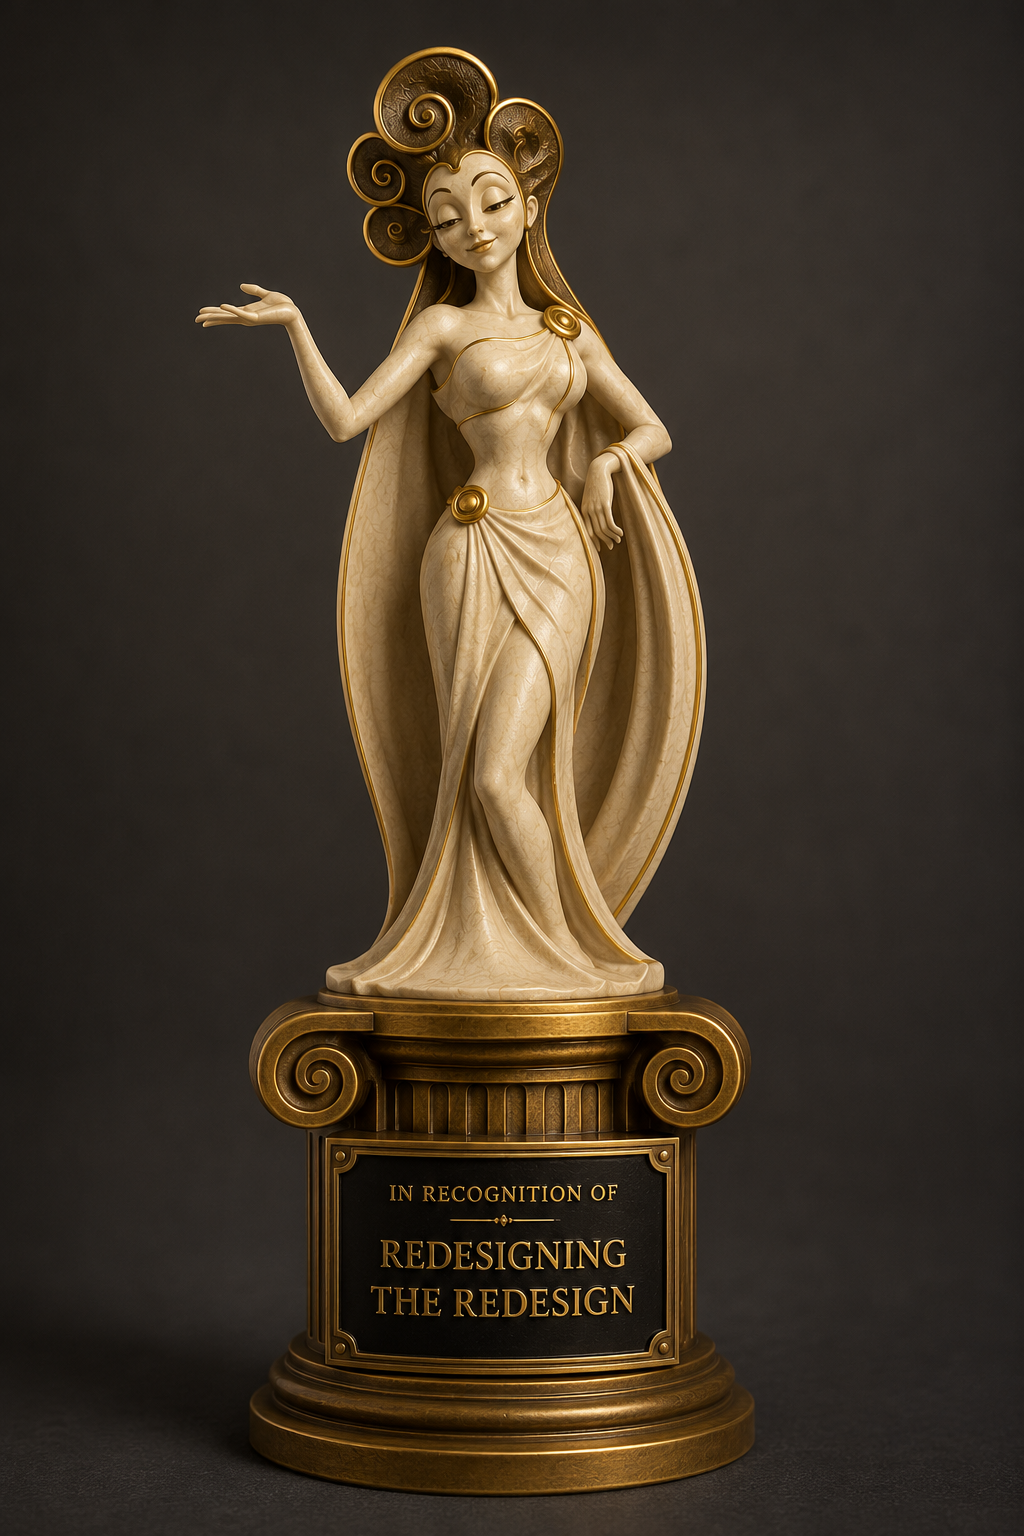
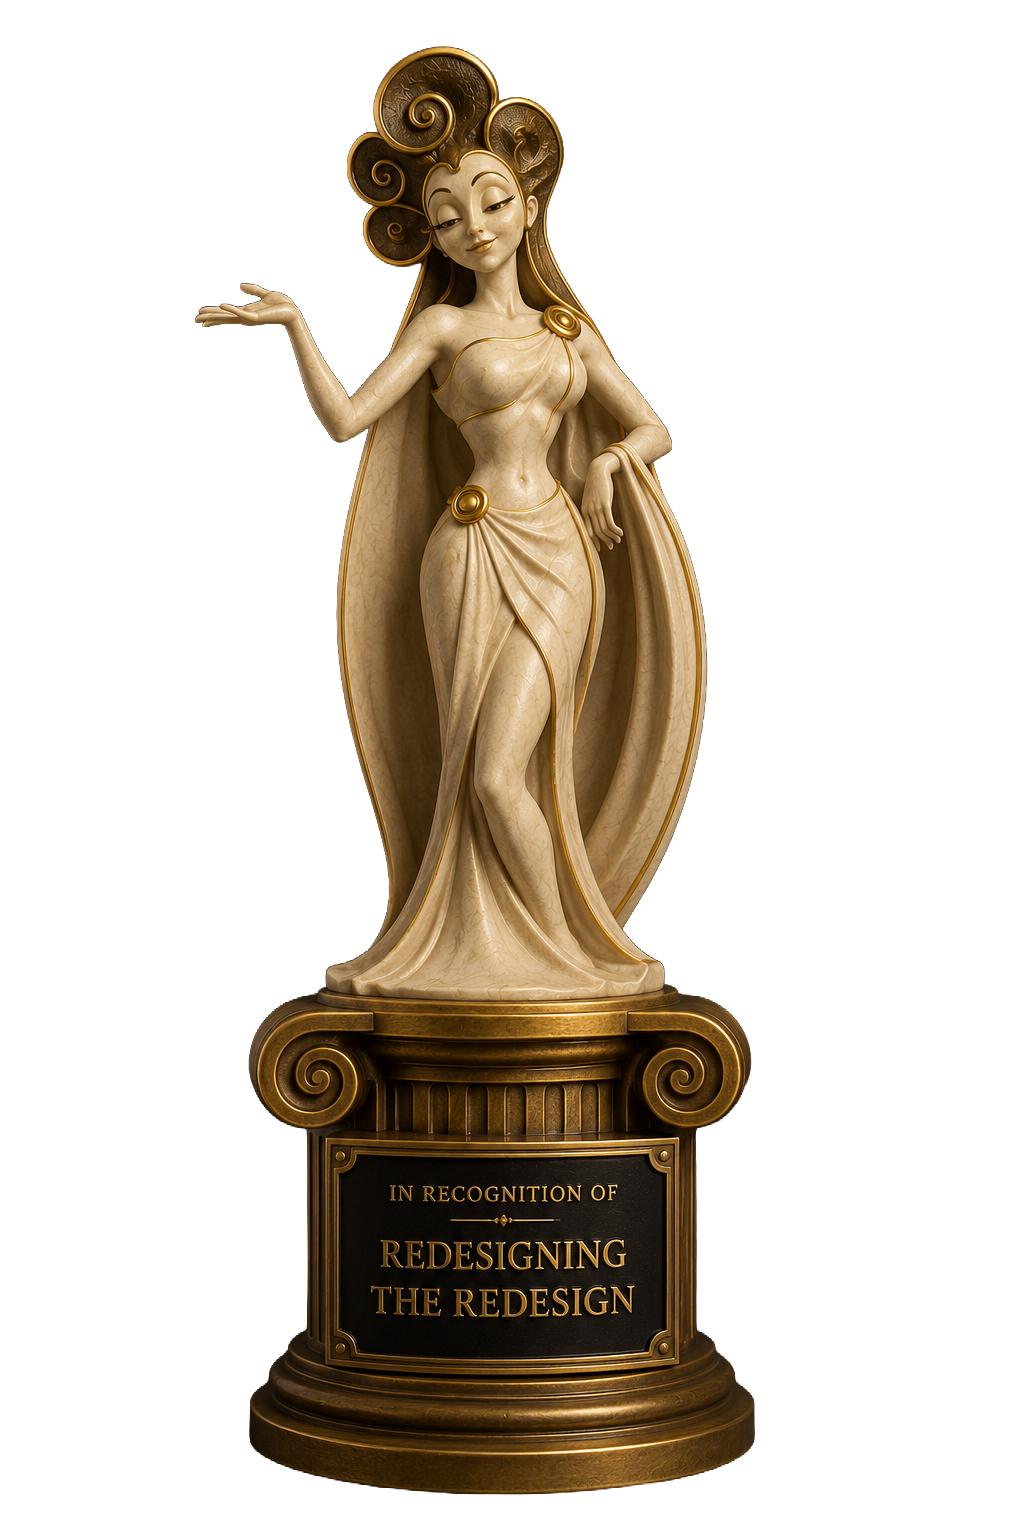
Trophy: use transparent cutout, drop the frame (soft shadow only)

diff --git a/app/page.tsx b/app/page.tsx
@@ -37,7 +37,7 @@ export default function Home() {
             src="/items/trophy.png"
             alt="Award: Redesigning the Redesign"
             className="w-full h-auto transition-transform duration-300 group-hover:-translate-y-1"
-            style={{ border: "2px solid var(--border)", boxShadow: "0 6px 10px rgba(0,0,0,0.4)" }}
+            style={{ filter: "drop-shadow(0 6px 8px rgba(0,0,0,0.35))" }}
             draggable={false}
           />
         </div>
